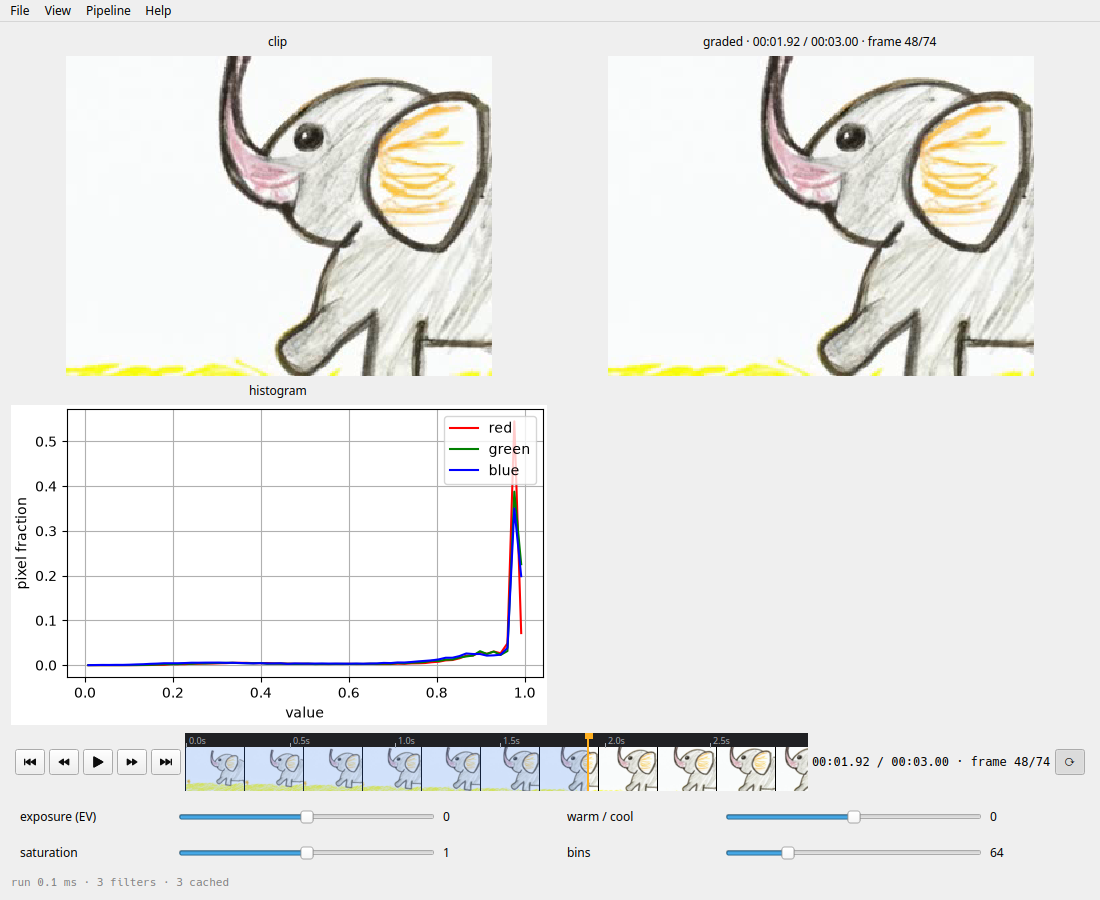
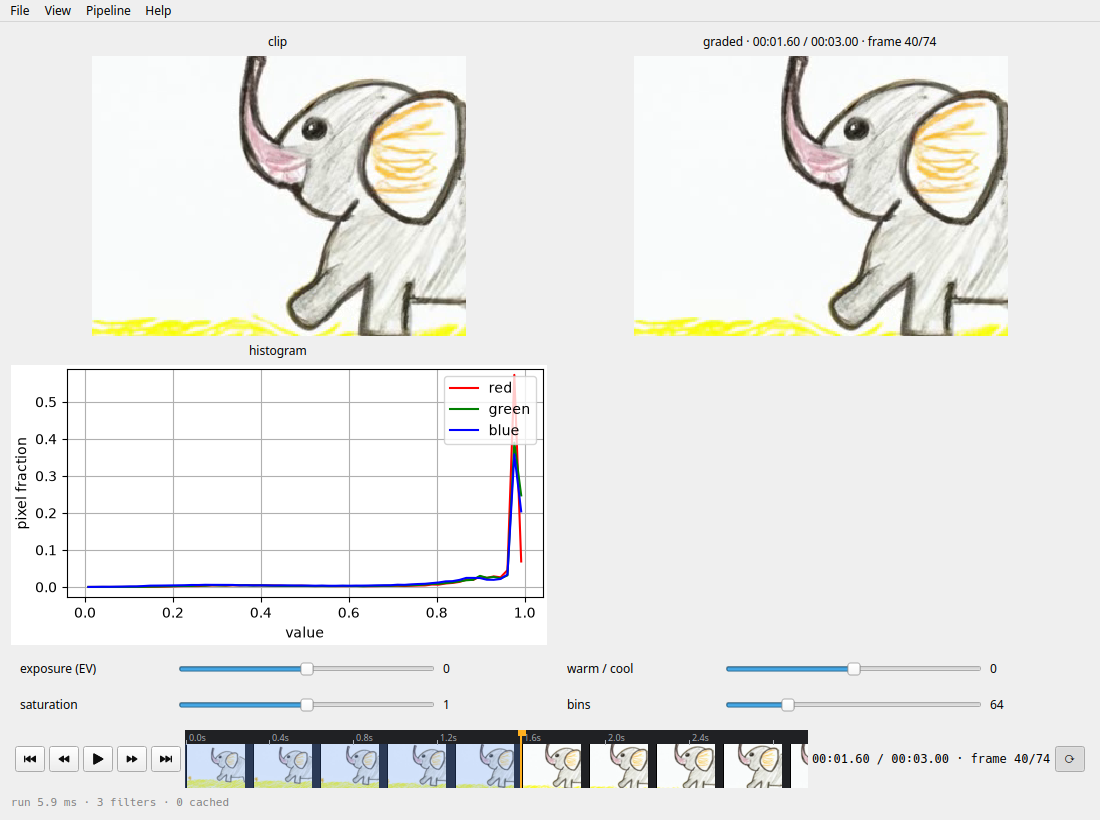
Qt video timeline at the bottom of the window, film strip zooms
- the timeline sits below the controls, above the status line
- scroll on the film strip zooms around the cursor (down to 8 frames),
  shift + scroll or a horizontal scroll pans, double-click shows the whole video
- thumbnails on a power-of-two frame grid so panning / zooming reuses decoded ones;
  ruler ticks down to single frames; an overview bar shows the visible part
- the zoomed view follows the playhead (playback, keys, buttons)
- docs, changelog and screenshot updated; zoom test

diff --git a/src/interactive_pipe/graphical/qt_timeline.py b/src/interactive_pipe/graphical/qt_timeline.py
@@ -1,14 +1,16 @@
 """Qt timeline of a ``Video`` input: transport buttons, film strip with a playhead, timecode.
 
-Shown full width between the images and the controls by
+Shown full width at the bottom of the window by
 ``InteractivePipeQT.add_controls`` when the pipeline gets a ``TimelineControl``
-(``headless/timeline.py``). Playback ticks at the video frame rate and moves the
+(``headless/timeline.py``). The film strip zooms: scroll to zoom around the
+cursor, shift + scroll (or a horizontal scroll) to pan, double-click to see the
+whole video again; while zoomed the view follows the playhead. Playback ticks at the video frame rate and moves the
 control through ``MainWindow.update_parameter``; refreshes are coalesced, so a
 pipeline slower than the video drops frames like a player instead of lagging.
 """
 
 import math
-from typing import TYPE_CHECKING, Any, Callable, List, Optional
+from typing import TYPE_CHECKING, Any, Callable, List, Optional, Tuple
 
 import numpy as np
 
@@ -43,6 +45,13 @@ HOVER_LINE = QColor(255, 255, 255, 110)
 #: tick spacing candidates in seconds (the first giving >= MIN_TICK_PIXELS between ticks wins)
 TICK_STEPS = (1 / 25, 0.1, 0.2, 0.5, 1, 2, 5, 10, 15, 30, 60, 120, 300, 600, 1800, 3600)
 MIN_TICK_PIXELS = 70
+#: the most zoomed-in view shows this many frames
+MIN_VISIBLE_FRAMES = 8
+#: zoom factor per wheel notch (120 units of angleDelta)
+ZOOM_PER_NOTCH = 1.25
+OVERVIEW_HEIGHT = 3
+OVERVIEW_TRACK = QColor(255, 255, 255, 40)
+OVERVIEW_VIEW = QColor(255, 255, 255, 150)
 
 
 def ruler_label(seconds: float, step: float) -> str:
@@ -74,7 +83,8 @@ class FilmStrip(QtWidgetBase):  # type: ignore[reportGeneralTypeIssues]
         self.timeline = timeline
         self.on_seek = on_seek
         self.hover_frame: Optional[int] = None
-        self._strip_cache: Optional[tuple] = None  # (width, n_frames, ids of videos) -> pixmap
+        self._view: Optional[Tuple[float, float]] = None  # (first, last) visible frame; None: the whole video
+        self._strip_cache: Optional[tuple] = None  # (width, view, n_frames, ids of videos) -> pixmap
         self.setMinimumHeight(STRIP_HEIGHT)
         self.setMaximumHeight(STRIP_HEIGHT)
         self.setMinimumWidth(200)
@@ -84,22 +94,80 @@ class FilmStrip(QtWidgetBase):  # type: ignore[reportGeneralTypeIssues]
     def sizeHint(self) -> QSize:
         return QSize(600, STRIP_HEIGHT)
 
+    # ---------------------------------------------------------------- view (zoom / pan)
+    def _full(self) -> Tuple[float, float]:
+        return 0.0, float(max(self.timeline.n_frames - 1, 1))
+
+    @property
+    def view(self) -> Tuple[float, float]:
+        """``(first, last)`` frame shown at the left and right edges (fractional when zoomed)."""
+        if self._view is None:
+            return self._full()
+        return self._view
+
+    @property
+    def zoomed(self) -> bool:
+        return self._view is not None
+
+    def set_view(self, first: float, last: float) -> None:
+        """Show frames ``first`` to ``last``: clamped to the video, at least ``MIN_VISIBLE_FRAMES`` wide."""
+        low, high = self._full()
+        span = min(max(last - first, min(MIN_VISIBLE_FRAMES, high - low)), high - low)
+        first = min(max(first, low), high - span)
+        self._view = None if span >= high - low else (first, first + span)
+        self.update()
+
+    def reset_view(self) -> None:
+        self._view = None
+        self.update()
+
+    def zoom(self, factor: float, around: Optional[float] = None) -> None:
+        """Zoom in (``factor`` > 1) or out keeping frame ``around`` (default: the centre) in place."""
+        first, last = self.view
+        if around is None:
+            around = (first + last) / 2
+        self.set_view(around - (around - first) / factor, around + (last - around) / factor)
+
+    def pan(self, fraction: float) -> None:
+        """Move the view by ``fraction`` of its width (positive: later in the video)."""
+        first, last = self.view
+        offset = fraction * (last - first)
+        self.set_view(first + offset, last + offset)
+
+    def follow(self, frame: int) -> None:
+        """Page the zoomed view so that ``frame`` is visible (playback, keys, buttons)."""
+        if self._view is None:
+            return
+        first, last = self._view
+        if first <= frame <= last:
+            return
+        span = last - first
+        start = frame - 0.1 * span if frame > last else frame - 0.9 * span
+        self.set_view(start, start + span)
+
     # ---------------------------------------------------------------- geometry
     def _x_of(self, frame: float) -> float:
-        span = max(self.timeline.n_frames - 1, 1)
-        return 1.0 + (self.width() - 2.0) * frame / span
+        first, last = self.view
+        return 1.0 + (self.width() - 2.0) * (frame - first) / max(last - first, 1e-9)
+
+    def _frame_of(self, x: float) -> float:
+        first, last = self.view
+        return first + (x - 1.0) / max(self.width() - 2.0, 1.0) * (last - first)
 
     def frame_at(self, x: float) -> int:
-        span = max(self.timeline.n_frames - 1, 1)
-        fraction = (x - 1.0) / max(self.width() - 2.0, 1.0)
-        return int(min(max(round(fraction * span), 0), self.timeline.n_frames - 1))
+        frame = round(self._frame_of(x))
+        return int(min(max(frame, 0), self.timeline.n_frames - 1))
 
     # ---------------------------------------------------------------- painting
     def _strip_pixmap(self) -> Any:
-        """Film strip of the first video, cached per width (thumbnails decoded once)."""
+        """Film strip of the first video, cached per width and view.
+
+        Thumbnails sit on a grid of frames (a power of two apart, chosen from
+        the zoom), so panning and zooming reuse the ones already decoded.
+        """
         width = max(self.width(), 1)
         videos = self.timeline.videos
-        key = (width, self.timeline.n_frames, tuple(id(video) for video in videos))
+        key = (width, self.view, self.timeline.n_frames, tuple(id(video) for video in videos))
         if self._strip_cache is not None and self._strip_cache[0] == key:
             return self._strip_cache[1]
         height = STRIP_HEIGHT - RULER_HEIGHT
@@ -108,15 +176,26 @@ class FilmStrip(QtWidgetBase):  # type: ignore[reportGeneralTypeIssues]
         if videos:
             video = videos[0]
             try:
-                sample = video.thumbnail(0, height)
-                tile = max(sample.shape[1], 8)
-                for left in range(0, width, tile):
-                    frame = self.frame_at(left + tile / 2)
-                    seconds = frame / self.timeline.fps
+                tile = max(video.thumbnail(0, height).shape[1], 8)
+                first, last = self.view
+                pixels_per_frame = (width - 2.0) / max(last - first, 1e-9)
+                step = 1
+                while step * pixels_per_frame < 0.75 * tile:
+                    step *= 2
+                n_frames = self.timeline.n_frames
+                for anchor in range(int(first // step) * step, int(last) + 1, step):
+                    if anchor >= n_frames:
+                        break
+                    left = int(round(self._x_of(anchor - 0.5 if step == 1 else anchor)))
+                    right = min(int(round(self._x_of(anchor + step - (0.5 if step == 1 else 0)))), width)
+                    seconds = anchor / self.timeline.fps
                     thumb = video.thumbnail(video.index_at(seconds), height)
-                    right = min(left + thumb.shape[1], width)
-                    strip[:, left:right] = thumb[:, : right - left]
-                    strip[:, left : left + 1] = 0  # sprocket-like separation between tiles
+                    crop = max(-left, 0)
+                    left = max(left, 0)
+                    shown = thumb[:, crop : crop + max(min(right - left, thumb.shape[1] - crop), 0)]
+                    strip[:, left : left + shown.shape[1]] = shown
+                    if 0 <= left < width:
+                        strip[:, left : left + 1] = 0  # sprocket-like separation between tiles
             except Exception:  # noqa: BLE001 - a frame that cannot be previewed leaves a plain track
                 pass
         pixmap = numpy_to_pixmap(np.ascontiguousarray(strip))
@@ -124,9 +203,11 @@ class FilmStrip(QtWidgetBase):  # type: ignore[reportGeneralTypeIssues]
         return pixmap
 
     def _tick_step(self) -> float:
-        duration = self.timeline.n_frames / self.timeline.fps
-        pixels_per_second = (self.width() - 2.0) / max(duration, 1e-9)
-        for step in TICK_STEPS:
+        fps = self.timeline.fps
+        first, last = self.view
+        pixels_per_second = (self.width() - 2.0) / max((last - first) / fps, 1e-9)
+        frame_steps = tuple(k / fps for k in (1, 2, 5, 10))
+        for step in sorted(set(frame_steps + tuple(t for t in TICK_STEPS if t > 1 / fps))):
             if step * pixels_per_second >= MIN_TICK_PIXELS:
                 return step
         return TICK_STEPS[-1]
@@ -140,6 +221,7 @@ class FilmStrip(QtWidgetBase):  # type: ignore[reportGeneralTypeIssues]
 
     def _paint(self, painter: Any) -> None:
         width, height = self.width(), self.height()
+        fps = self.timeline.fps
         painter.fillRect(0, 0, width, height, TRACK_BACKGROUND)
         painter.drawPixmap(0, RULER_HEIGHT, self._strip_pixmap())
         # ruler: ticks every "nice" number of seconds, labelled with their timecode
@@ -148,24 +230,36 @@ class FilmStrip(QtWidgetBase):  # type: ignore[reportGeneralTypeIssues]
         painter.setFont(font)
         painter.setPen(QPen(RULER_TEXT))
         step = self._tick_step()
-        duration = self.timeline.n_frames / self.timeline.fps
-        for k in range(int(math.floor(duration / step)) + 1):
+        first, last = self.view
+        for k in range(int(math.ceil(first / fps / step - 1e-9)), int(math.floor(last / fps / step + 1e-9)) + 1):
             seconds = k * step
-            x = self._x_of(seconds * self.timeline.fps)
+            x = self._x_of(seconds * fps)
             painter.drawLine(int(x), RULER_HEIGHT - 4, int(x), RULER_HEIGHT)
             if x < width - 40:
                 painter.drawText(int(x) + 3, RULER_HEIGHT - 3, ruler_label(seconds, step))
         # played part, hover position, playhead
         x_head = self._x_of(int(self.timeline.value))
-        painter.fillRect(QRectF(0, RULER_HEIGHT, x_head, height - RULER_HEIGHT), PLAYED_SHADE)
+        shade = min(max(x_head, 0.0), float(width))
+        painter.fillRect(QRectF(0, RULER_HEIGHT, shade, height - RULER_HEIGHT), PLAYED_SHADE)
         if self.hover_frame is not None:
             x_hover = self._x_of(self.hover_frame)
             painter.setPen(QPen(HOVER_LINE, 1))
             painter.drawLine(int(x_hover), RULER_HEIGHT, int(x_hover), height)
-        pen = QPen(PLAYHEAD, 2)
-        painter.setPen(pen)
-        painter.drawLine(int(x_head), 0, int(x_head), height)
-        painter.fillRect(QRectF(x_head - 4, 0, 8, 6), PLAYHEAD)
+        if self.zoomed:  # overview: where the visible part sits in the whole video
+            low, high = self._full()
+            top = height - OVERVIEW_HEIGHT
+            painter.fillRect(QRectF(0, top, width, OVERVIEW_HEIGHT), OVERVIEW_TRACK)
+            left = width * (first - low) / (high - low)
+            painter.fillRect(
+                QRectF(left, top, max(width * (last - first) / (high - low), 2.0), OVERVIEW_HEIGHT), OVERVIEW_VIEW
+            )
+            painter.fillRect(
+                QRectF(width * int(self.timeline.value) / (high - low) - 1, top, 2, OVERVIEW_HEIGHT), PLAYHEAD
+            )
+        if -4 <= x_head <= width + 4:
+            painter.setPen(QPen(PLAYHEAD, 2))
+            painter.drawLine(int(x_head), 0, int(x_head), height)
+            painter.fillRect(QRectF(x_head - 4, 0, 8, 6), PLAYHEAD)
 
     # ---------------------------------------------------------------- mouse
     def mousePressEvent(self, event: Any) -> None:  # noqa: N802 - Qt API
@@ -182,6 +276,23 @@ class FilmStrip(QtWidgetBase):  # type: ignore[reportGeneralTypeIssues]
     def leaveEvent(self, event: Any) -> None:  # noqa: N802 - Qt API
         self.hover_frame = None
         self.update()
+
+    def mouseDoubleClickEvent(self, event: Any) -> None:  # noqa: N802 - Qt API
+        self.reset_view()
+
+    def wheelEvent(self, event: Any) -> None:  # noqa: N802 - Qt API
+        """Scroll: zoom around the cursor; shift + scroll or horizontal scroll: pan."""
+        delta = event.angleDelta()
+        horizontal = abs(delta.x()) > abs(delta.y())
+        shift = bool(event.modifiers() & Qt.KeyboardModifier.ShiftModifier)
+        notches = (delta.x() if horizontal else delta.y()) / 120.0
+        if horizontal or shift:
+            self.pan(-0.15 * notches)
+        elif notches:
+            self.zoom(ZOOM_PER_NOTCH**notches, around=self._frame_of(_event_x(event)))
+        if self.hover_frame is not None:
+            self.hover_frame = self.frame_at(_event_x(event))
+        event.accept()  # the window behind does not scroll
 
 
 class TimelineWidget(QtWidgetBase):  # type: ignore[reportGeneralTypeIssues]
@@ -238,6 +349,7 @@ class TimelineWidget(QtWidgetBase):  # type: ignore[reportGeneralTypeIssues]
     def reset(self) -> None:
         """Sync with the control value (reset, tuning import, session restore, key step)."""
         self.time_label.setText(self.timeline.label())
+        self.strip.follow(int(self.timeline.value))
         self.strip.update()
 
     def seek(self, frame: int) -> None:

diff --git a/test/test_video_gui.py b/test/test_video_gui.py
@@ -35,6 +35,42 @@ def test_qt_timeline_widget():
     pipeline.timeline.value = 5
     gui.window.reset_sliders()
     assert "frame 5/9" in widget.time_label.text()
+    layout = gui.window.layout()
+    assert layout.indexOf(widget) == layout.indexOf(gui.window.status_label) - 1  # at the bottom
+
+
+def test_qt_timeline_zoom():
+    qt_gui = pytest.importorskip("interactive_pipe.graphical.qt_gui")
+    from interactive_pipe.graphical.qt_timeline import MIN_VISIBLE_FRAMES
+
+    pipeline = HeadlessPipeline.from_function(one_video)
+    gui = qt_gui.InteractivePipeQT(pipeline=pipeline, name="video zoom")
+    qt_gui.QTimer.singleShot(0, gui.close)
+    gui(Video(ramp(200), fps=20))
+    widget = gui.window.timeline_widget
+    strip = widget.strip
+    strip.resize(400, 58)
+    assert strip.view == (0.0, 199.0) and not strip.zoomed
+    strip.zoom(4.0, around=100.0)  # the frame under the cursor stays in place
+    first, last = strip.view
+    assert last - first == pytest.approx(199.0 / 4) and first < 100.0 < last
+    assert (100.0 - first) / (last - first) == pytest.approx(100.0 / 199.0)
+    assert strip.frame_at(1.0) == round(first) and strip.frame_at(399.0) == round(last)
+    assert not strip.grab().isNull()  # thumbnails of the zoomed part, overview bar
+    strip.zoom(1000.0)
+    first, last = strip.view
+    assert last - first == pytest.approx(MIN_VISIBLE_FRAMES)
+    strip.pan(-100.0)  # clamped to the start
+    assert strip.view[0] == 0.0
+    assert not strip.grab().isNull()  # one thumbnail per frame
+    widget.seek(150)  # the view pages to the playhead
+    first, last = strip.view
+    assert first <= 150 <= last
+    strip.zoom(0.001)  # zoomed out past the whole video: back to the full view
+    assert not strip.zoomed
+    strip.zoom(2.0)
+    strip.mouseDoubleClickEvent(None)
+    assert not strip.zoomed
 
 
 def test_qt_user_key_binding_wins():

diff --git a/src/interactive_pipe/graphical/qt_gui.py b/src/interactive_pipe/graphical/qt_gui.py
@@ -736,7 +736,7 @@ class MainWindow(QtWidgetBase, InteractivePipeWindow):  # type: ignore[reportGen
             self.detached_windows.append(detached_window)
 
     def add_timeline(self, ctrl: TimelineControl) -> None:
-        """Full-width timeline of the ``Video`` inputs, between the images and the controls."""
+        """Full-width timeline of the ``Video`` inputs, at the bottom of the window (above the status line)."""
         from interactive_pipe.graphical.qt_timeline import TimelineWidget
 
         if ctrl.name in self.widget_list:
@@ -745,7 +745,7 @@ class MainWindow(QtWidgetBase, InteractivePipeWindow):  # type: ignore[reportGen
         self.ctrl[ctrl.name] = ctrl
         self.widget_list[ctrl.name] = widget  # reset_sliders -> widget.reset()
         main_layout = self.layout()
-        main_layout.insertWidget(main_layout.indexOf(self.bottom_scroll), widget)  # type: ignore[union-attr]
+        main_layout.insertWidget(main_layout.indexOf(self.status_label), widget)  # type: ignore[union-attr]
         self.timeline_widget = widget
         if self.main_gui is not None:
             self.main_gui.bind_timeline_keys(widget.play_pause, widget.step)

diff --git a/src/interactive_pipe/graphical/qt_panels.py b/src/interactive_pipe/graphical/qt_panels.py
@@ -113,7 +113,7 @@ class QtPanelBuilder:
                 window.main_gui.bind_keyboard_slider(ctrl, window.key_update_parameter)  # type: ignore[reportOptionalMemberAccess]
             return None
         elif isinstance(ctrl, TimelineControl):
-            window.add_timeline(ctrl)  # full width under the images, not in a panel
+            window.add_timeline(ctrl)  # full width at the bottom of the window, not in a panel
             return None
         elif isinstance(ctrl, TimeControl):
             timer = QTimer(window)

diff --git a/demo/video_grading_demo.py b/demo/video_grading_demo.py
@@ -2,7 +2,7 @@
 Demo: grade a video file — exposure, saturation, white balance — with a timeline.
 
 The pipeline is written for one frame; ``Video(path)`` turns it into a video
-tool: the window gets a timeline under the images (play / pause with space,
+tool: the window gets a timeline at the bottom (play / pause with space,
 step with the left / right arrows, click or drag on the film strip to seek),
 and every slider applies to the frame on screen.
 

diff --git a/src/interactive_pipe/data_objects/video.py b/src/interactive_pipe/data_objects/video.py
@@ -305,7 +305,7 @@ class Video:
             graded = color_grade(frame)
             return frame, graded
 
-        grade(Video("clip.mp4"))  # a timeline under the images
+        grade(Video("clip.mp4"))  # a timeline at the bottom of the window
         grade.headless(Video(frames_array), frame=10)  # frame 10 without a window
         ```
     """

diff --git a/CHANGELOG.md b/CHANGELOG.md
@@ -4,7 +4,7 @@
 
 ### New: video inputs and a timeline
 
-- **`Video`**: give a pipeline input as `Video(source)` and the pipeline function, written for one frame, becomes a video tool. The window shows a timeline under the images; filters receive the frame under the playhead. The source can be a video file (OpenCV; `.gif` also with Pillow), a folder of images, a glob pattern or a list of paths, a numpy array `(T, H, W[, C])`, a torch tensor `(T, C, H, W)` / `(T, H, W[, C])` (`to_numpy=False` hands the tensor slices to the filters), or an iterator / generator / `cv2.VideoCapture` read up to `max_frames`. Files are decoded lazily. Options: `fps`, `start` / `stop` / `step`, `window=k` (the `k` frames ending at the current one, for temporal filters). ([guide](https://balthazarneveu.github.io/interactive_pipe/guide/video/))
+- **`Video`**: give a pipeline input as `Video(source)` and the pipeline function, written for one frame, becomes a video tool. The window shows a timeline at the bottom (on Qt a film strip: scroll to zoom in, shift + scroll to pan); filters receive the frame under the playhead. The source can be a video file (OpenCV; `.gif` also with Pillow), a folder of images, a glob pattern or a list of paths, a numpy array `(T, H, W[, C])`, a torch tensor `(T, C, H, W)` / `(T, H, W[, C])` (`to_numpy=False` hands the tensor slices to the filters), or an iterator / generator / `cv2.VideoCapture` read up to `max_frames`. Files are decoded lazily. Options: `fps`, `start` / `stop` / `step`, `window=k` (the `k` frames ending at the current one, for temporal filters). ([guide](https://balthazarneveu.github.io/interactive_pipe/guide/video/))
 - **The timeline is a control named `frame`** (`TimelineControl`): `pipe(Video(...), frame=20)` opens at frame 20, and `snapshot(..., frame=10)`, `sweep(..., frame=[0, 25, 50])` (a contact sheet), `describe()`, tuning files and sessions see it. Qt shows a film strip with a time ruler and playhead, transport buttons, timecode and a loop toggle; Dear PyGui shows play / step buttons next to the frame slider; the other backends show a frame slider. Space plays / pauses, the left / right arrows step one frame. Playback runs at the video frame rate and skips frames when the pipeline is slower.
 - **Several `Video` inputs share the timeline**, matched by time when their frame rates differ.
 - **Filters read the position as `context["timeline"]`**: a `Timeline` with `frame`, `time`, `fps`, `n_frames`, `duration` and `progress`.

diff --git a/docs/guide/video.md b/docs/guide/video.md
@@ -1,7 +1,7 @@
 # Video inputs & timeline
 
 Write the pipeline for **one frame**, give it a **`Video`**: the window gets a
-timeline under the images (film strip, play / pause, step, timecode) and every
+timeline at the bottom (film strip, play / pause, step, timecode) and every
 filter receives the frame under the playhead.
 
 ![Qt window with a video timeline](../images/video_timeline.png)
@@ -58,10 +58,13 @@ Other options: `fps=` (default: the file's, else 25), `start=`, `stop=`,
 | play / pause | <kbd>Space</kbd> or ▶ | <kbd>Space</kbd> or *Play* | – |
 | step one frame | <kbd>←</kbd> <kbd>→</kbd> | <kbd>←</kbd> <kbd>→</kbd> | slider |
 | seek | click / drag on the strip | slider | slider |
+| zoom | scroll on the strip (shift + scroll pans, double-click shows it all) | – | – |
 
 Playback runs at the video frame rate. When the pipeline is slower than the
 video, frames are skipped like a player does (the display never lags behind).
-The ⟳ button toggles looping. A `KeyboardControl` or a context event already
+The ⟳ button toggles looping. Zoomed in, the strip shows the frames one by
+one, a thin bar under it shows which part of the video is visible, and the
+view follows the playhead during playback. A `KeyboardControl` or a context event already
 bound to space or the arrows keeps them.
 
 The timeline is an ordinary control named **`frame`**: the call can set the
